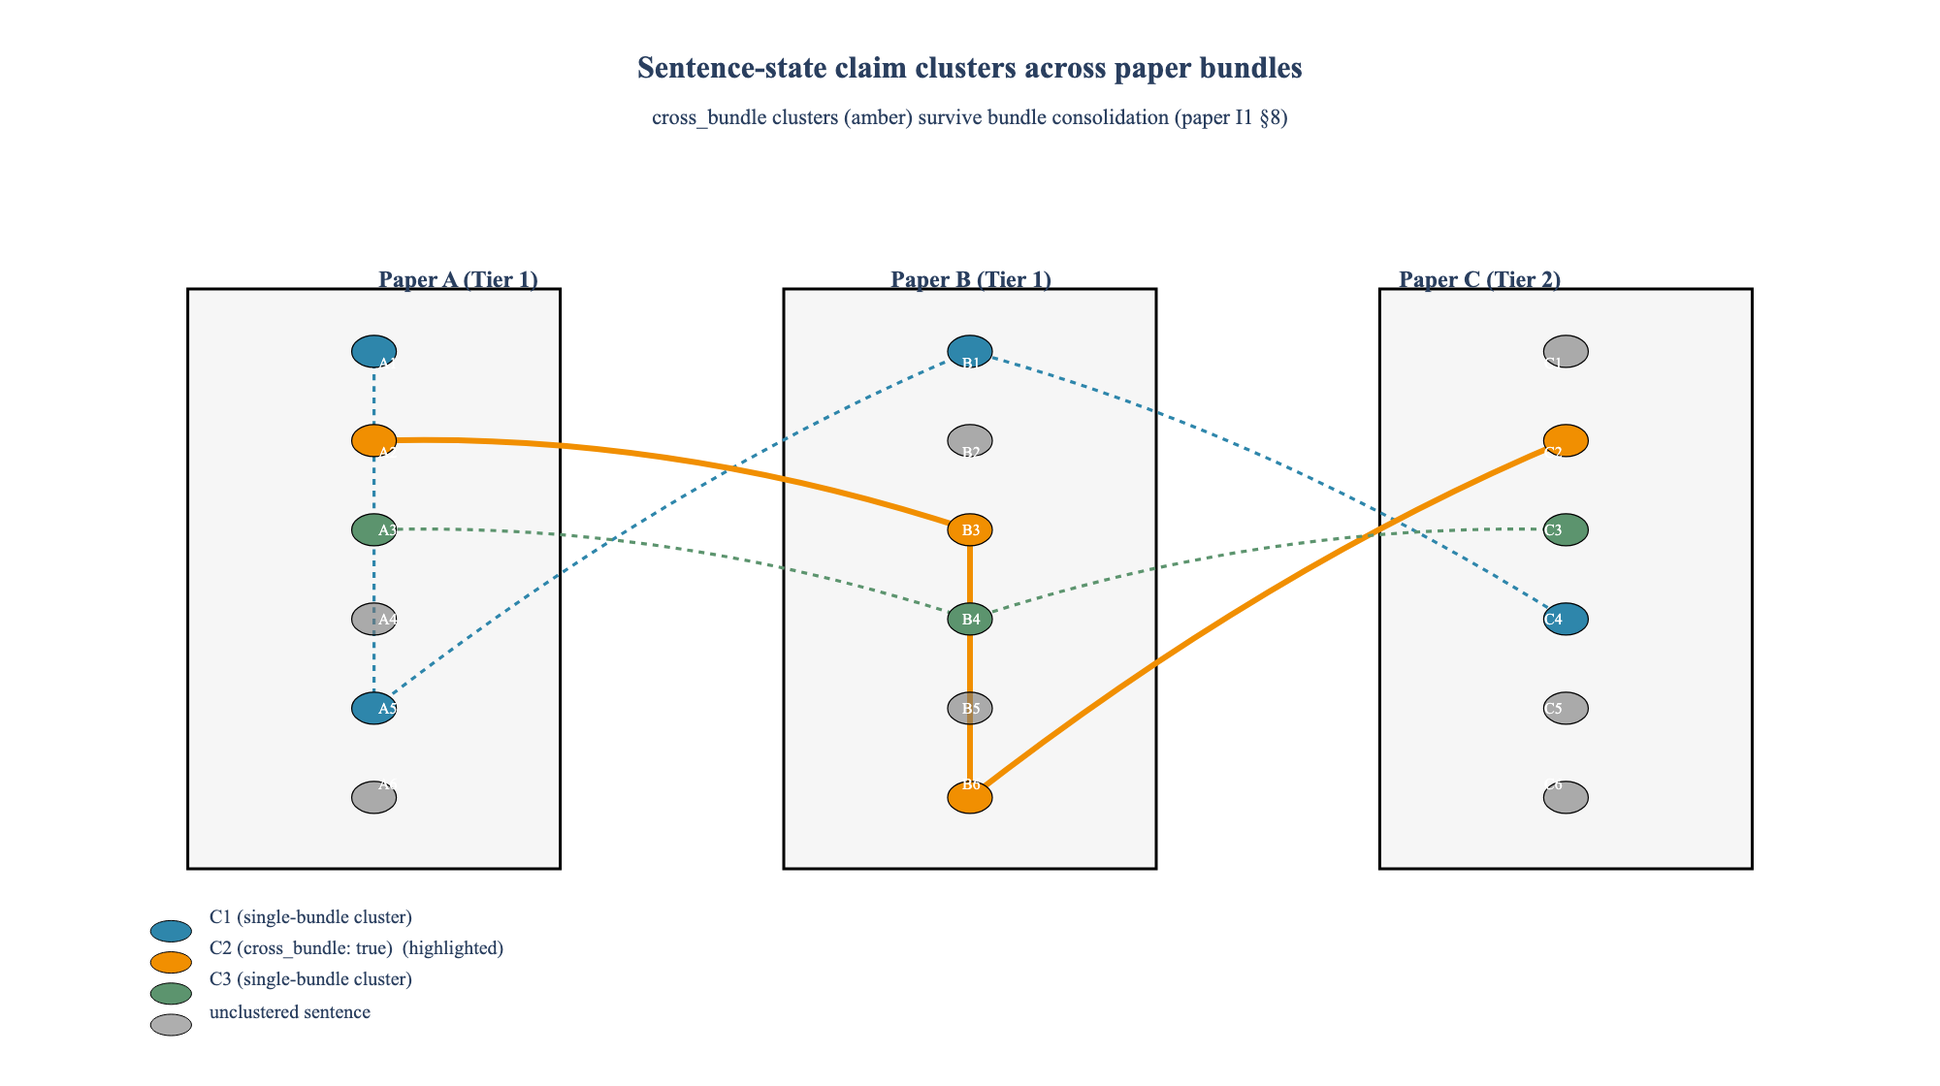
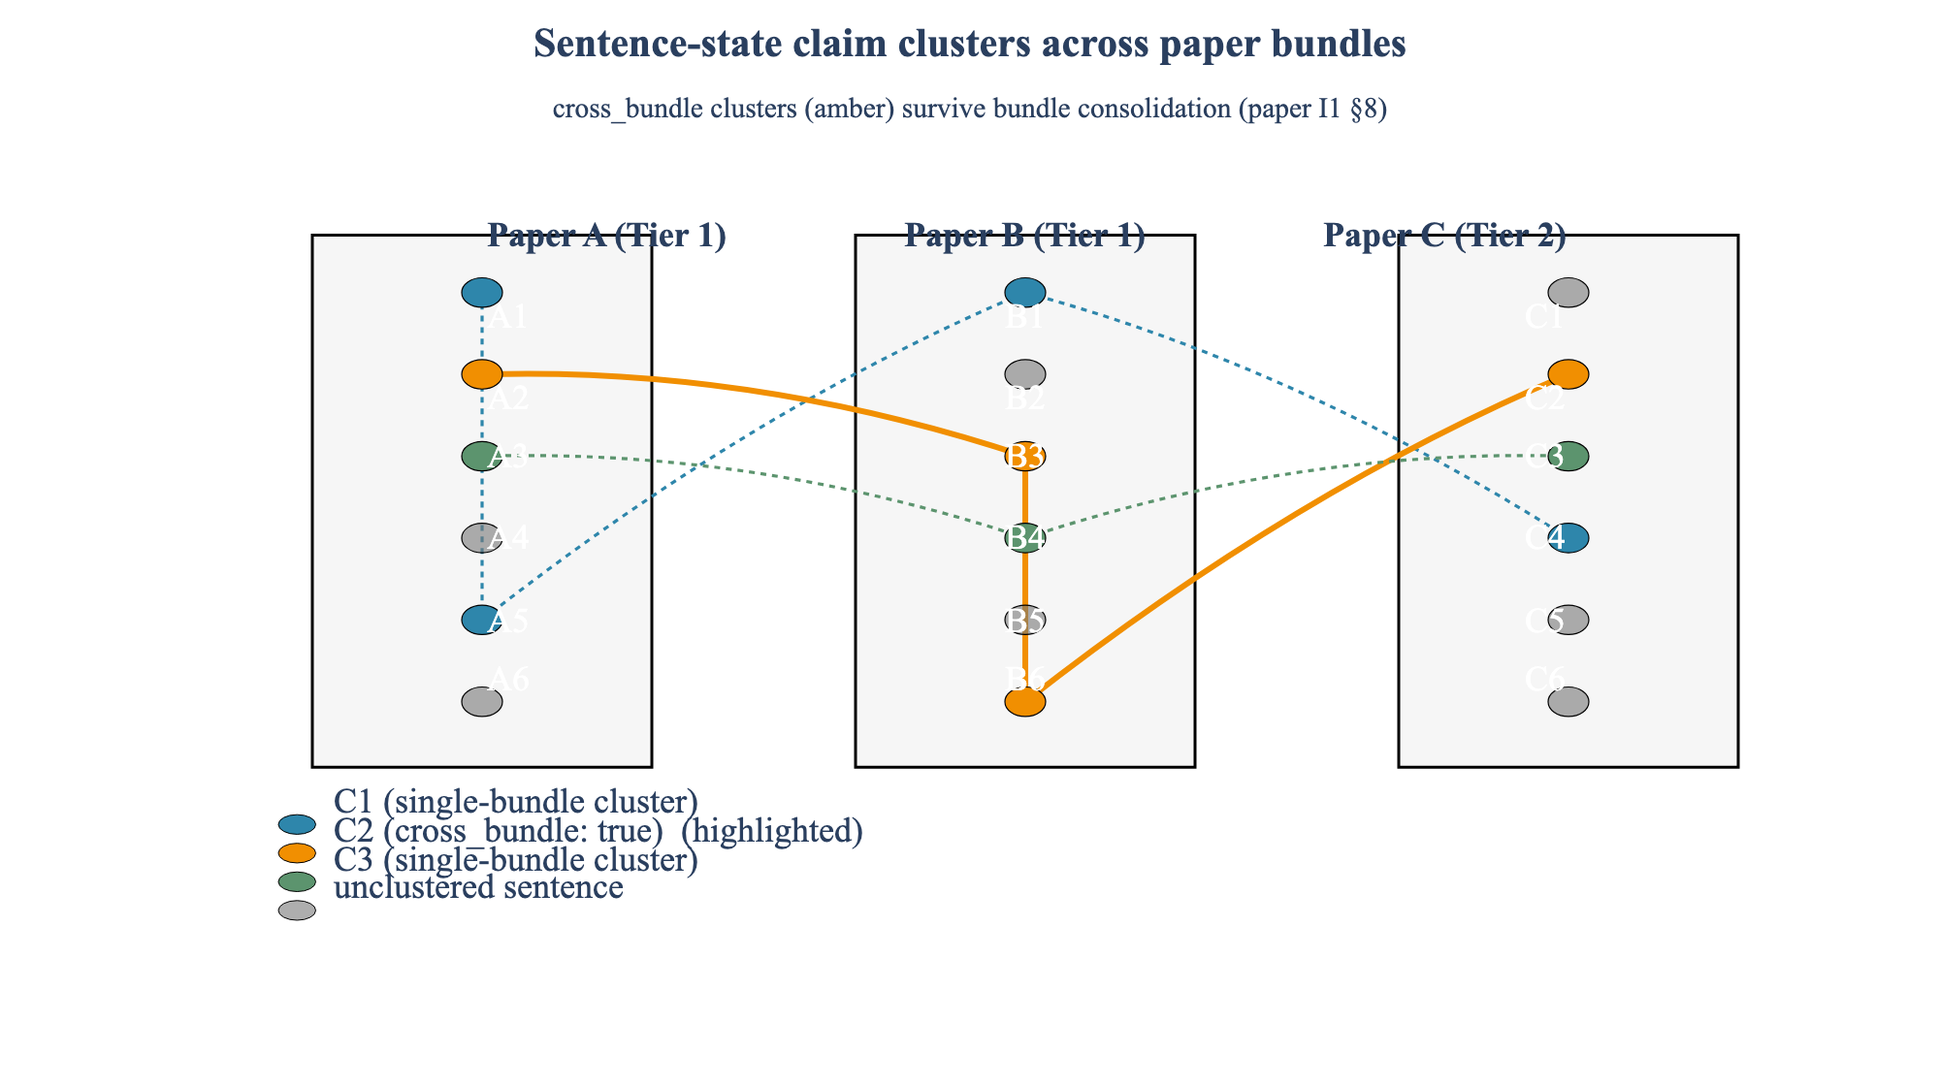
fix(I1): lead the abstract with the result; route figures through the layout helper
PROSE (from the section-7.5 read-through, whose pagination contract worked on
its first real test: seven windows, terminated at \end{document}).

Abstract rewritten to lead with the finding rather than the apparatus. It had
opened on a field-level complaint and an architecture description, reaching the
result at L90 and the strongest result -- the measured rate of fabricated
attributions surviving every deterministic check -- at L100. Both are now in
the first two sentences.

Deleted throughout: the changelog against an earlier internal version, an
internal draft filename cited as a source, a lock date, an invariant clause
addressed to the project operator rather than describing a property, and three
occurrences of an ungrammatical clause that had reached the abstract's own
contribution sentence. Non-monotonic internal identifiers replaced by ordinals
a reader can order. Title-page draft taxonomy replaced by a date.

Symbols now defined at first use: the effective-potential parameters in the
exclusion case; the two unrelated uses of K (sectional vs extrinsic curvature)
plus rho, in a notation paragraph; the expansion and affine parameter, which
collided with a coupling of the same letter three sections earlier.

FIGURES. All six I1 figures printed below the 8pt legibility floor at
3.81-6.21pt. The cause was structural rather than six font bugs: none of the
generators called _bundle_layout, which pins font-to-canvas and normalizes
[…]

diff --git a/papers/I1/paper_draft.tex b/papers/I1/paper_draft.tex
@@ -15,20 +15,9 @@
 %% Source manifest: papers/I1/source_manifest.md
 %% Append log: papers/I1/append_log.json
 %% Change log: papers/I1/change_log.md
-%% This bundle is a synthesis-driven new composition (Phase 7a sub-wave
-%% 7a.2). It draws on paper15_methodology, paper44_riemannian_connection,
-%% Phase 6f W1-W6 algebraic-GR substrate rosters, and Phase 6g W5
-%% structural-Prop scoping pattern as substrate; the prose is authored
-%% fresh.
 \input{../../docs/counts.tex}
-%% ── Per-module Phase-6f/6g count-macro fallbacks ────────────────────
-%% These 19 macros are referenced in §11–§13 but are not (yet) emitted
-%% by scripts/update_counts.py into docs/counts.tex. Values computed
-%% from lean/lean_deps.json (kind == "theorem" grouped by module — the
-%% exact update_counts.py convention), snapshot 2026-06-10.
-%% \providecommand yields to docs/counts.tex definitions the moment the
-%% counts pipeline emits these macros; the durable fix is to add them
-%% to update_counts.py and delete this block.
+%% Per-module count-macro fallbacks. \providecommand yields to
+%% docs/counts.tex whenever the counts pipeline emits these directly.
 \providecommand{\curvatureThms}{14}
 \providecommand{\einsteinTensorThms}{9}
 \providecommand{\energyConditionsThms}{8}
@@ -56,56 +45,44 @@ Effective Field Theory, Algebraic General Relativity, and
 Topological Quantum Field Theory}
 
 \author{John Roehm}
-\date{Draft: Phase 7a, May 2026}
+\date{\today}
 
 \begin{document}
 
 \maketitle
 
 \begin{abstract}
-Computational physics research lacks a structural guarantee that
-published numerical claims match the underlying computation. We
-describe a three-layer continuous-verification pipeline integrating
-Python numerics, Lean~4 formal proofs, and the Aristotle automated
-theorem prover, organized into a fourteen-stage workflow with
-fifteen invariants. Applied across a research program spanning
-dissipative effective field theory, analog Hawking radiation,
-emergent gravity through black-hole thermodynamics, anomaly
-constraints on Standard Model particle content, dark-sector substrate
-constraints, and topological quantum computation foundations, the
-pipeline has produced \totaltheorems{} machine-checked theorems
-across \leanmodules{} Lean modules with \sorrycount{} remaining gaps
-(\sorrypercent\%) plus \aristotleproved{} theorems closed by
-automated theorem proving. We document three new pipeline stages
-beyond the original twelve-stage version (interactive Lean
-development via the language-server protocol, fresh-context
-adversarial review, and meta-process quality improvement), three new
-invariants (placeholder non-load-bearing, no heartbeat overrides in
-proof bodies, primary-source citation cache), the publication-bundle
-architecture that consolidates per-wave drafts into the
-publication targets that frame enumerates, and the preemptive-strengthening discipline
-that reduces theorem-statement audit cost from twelve retroactive
-cuts to five and then to zero across three successive waves (with
-a mandatory ruthless post-wave review as a safety net for residual
-subtler patterns). Three worked cases illustrate the methodology:
-the Aristotle FirstOrderKMS counterexample (where automated proving
-failed and the failure surfaced a substantive physics result), the
-gap-solution-bounded conjecture disproof (where formalization-driven
-counterexample search refuted a literature claim), and the
-chirality-wall exclusion (where decomposing a large goal into
-structural sub-lemmas exposed an assumption no registry recorded). Two further studies document the
-classical-general-relativity mathematics the pipeline accumulated as a
-byproduct, and the discipline by which a theorem is scoped around
-infrastructure the ambient library does not contain.
-A final process result documents the limits of metadata-level
-citation validation: a June~2026 external-review remediation found
-that a citation can be metadata-valid (resolvable identifier,
-cached primary source, correct bibliographic data) while the
-specific claim the prose attributes to it is unsupported by the
-source (three instances in roughly ten spot checks), motivating
-three new deterministic prose-consistency checks and a systematic
-content-level attribution sweep.
-The methodology is domain-agnostic.
+The most informative outputs of a machine-checked physics programme are
+its failures. We report three formalization episodes in which an
+automated prover's refusal, rather than its success, carried the
+result: a returned counterexample localized a defective hypothesis to
+the five field components its specification never named; a second
+refuted an expectation that a condensate gap stays below its cutoff,
+and in doing so yielded a closed-form ceiling on the coupling range in
+which the model is valid at all; and decomposing a large exclusion into
+structural sub-lemmas forced a physics assumption that no assumption
+registry recorded into the open, where it was discharged as two
+theorems rather than admitted as an axiom. A fourth result concerns the
+verification apparatus itself: a citation can be metadata-valid, with
+a resolving identifier, a cached primary source and correct
+bibliographic data, while the claim the prose attributes to it is unsupported by
+that source, and roughly three in ten spot-checked load-bearing
+attributions were wrong at that level, every one of them passing all
+deterministic checks. Making such failures legible rather than silent
+is, we argue, the real design problem. The apparatus that produced
+these results is a three-layer pipeline integrating Python numerics,
+Lean~4 proofs and an automated theorem prover, run as a staged
+development cycle under explicit invariants; applied across
+dissipative effective field theory, analog Hawking radiation, emergent
+gravity, anomaly constraints on Standard Model particle content, dark
+sector constraints and topological quantum computation, it has produced
+\totaltheorems{} machine-checked theorems across \leanmodules{} Lean
+modules with \sorrycount{} remaining gaps (\sorrypercent\%), plus
+\aristotleproved{} theorems closed by automated proving. Two further
+studies document the classical-general-relativity mathematics the
+programme accumulated as a byproduct, and the discipline by which a
+result is scoped around infrastructure the ambient library does not
+contain. Nothing in the method is specific to this physics.
 \end{abstract}
 
 %% ─────────────────────────────────────────────────────────────────
@@ -170,26 +147,14 @@ publicly available; monospaced file paths throughout this paper
 are paths from the root of the public repository (see the Code
 Availability statement).
 
-This paper extends and supersedes an earlier internal draft
-description of a twelve-stage version of the pipeline (April
-2026). The version described here adds three stages beyond
-the original twelve: interactive Lean development via the
-language-server protocol (Stage~3a), fresh-context adversarial
-review (Stage~13), and meta-process quality improvement
-(Stage~14); and three invariants (placeholder non-load-bearing,
-no heartbeat overrides in proof bodies, primary-source citation
-cache). The invariant set has since grown to fifteen; the
-fifteenth (explicit user sign-off, with a documented discharge
-plan, for any new project-local axiom) encodes the project's
-posture that axioms are temporary scaffolding, not permanent
-commitments (Section~\ref{sec:pipeline}). It also documents the
-publication-bundle architecture that consolidates per-wave drafts
-into the publication targets that frame enumerates, and the preemptive-strengthening
-discipline that reduces theorem-statement audit cost from twelve
-retroactive cuts (Phase~6c.3) to five (Phase~6b.1) and then to zero
-(Phase~6m R6) by applying strengthening rules prospectively, with
-a mandatory ruthless post-wave review as the safety net for the
-subtler patterns the prospective checklist misses.
+The development cycle described here runs from a substrate change
+through formalization, mechanical validation, drafting and three
+independent review passes, under a set of invariants that a change
+must not violate. Two of those invariants carry most of the weight in
+what follows: a declaration proved trivially may never be cited as a
+result, and a new project-local axiom requires an explicit discharge
+plan rather than a note of intent. The programme currently ships no
+project-local axioms at all.
 
 The remainder of this paper is organized as follows.
 Section~\ref{sec:architecture} describes the three-layer
@@ -839,7 +804,10 @@ sphaleron-decoupling threshold. \texttt{WallCracked}$(a)$ is $a = 0$:
 the anomaly cancels, so the chiral theory admits the gauging step and a
 non-perturbative regulator exists. The second conjunct is the
 phase-transition condition, $0 < E$ together with
-$c\,\lambda\,T_c < E$, where $E$ is the cubic thermal coefficient
+$c\,\lambda\,T_c < E$. Here $\lambda$ is the quartic self-coupling,
+$\mu^2$ the mass-squared parameter and $c_T$ the thermal-mass
+coefficient of the finite-temperature effective potential, and $E$ is
+its cubic thermal coefficient
 \texttt{p.cubic\_coeff} and
 $T_c = \sqrt{\mu^2 / c_T}$ is the critical temperature built from the
 record's other fields.
@@ -1068,13 +1036,10 @@ project-level memory.}
 \label{tab:stages}
 \end{table}
 
-The current pipeline extends the original twelve-stage version
-(paper15 draft, April 2026) with three additional stages.
-Stage~3a, interactive Lean development via the language-server
-protocol, replaces the previous ``write tactic, run \texttt{lake
-build}, parse error, iterate'' development loop (approximately
-fifteen seconds per cycle) with a millisecond-latency interactive
-loop using the \texttt{lean-lsp-mcp} tool integration. The
+Interactive Lean development via the language-server protocol
+replaces a ``write tactic, run \texttt{lake build}, parse error,
+iterate'' loop, whose cycle time is set by the build, with one whose
+cycle time is set by a language-server query. The
 interactive loop reads the proof state at any line and column,
 tests candidate tactic sequences without editing the file, and
 returns ``no goals'' when the proof is complete. Per tactic-test cycle, the interactive
@@ -1191,12 +1156,11 @@ are preserved verbatim across regenerations.
 \item \textbf{Every paper-shaped output lifts into a publication
 bundle.} New drafts, section additions, and notebook companions
 identify their target bundle at Stage~1 and record it in the
-draft-mapping document at Stage~12. No new stand-alone paper
-drafts are created without explicit user authorization to add a
-new bundle target beyond the current roster.
+draft-mapping document before it is assembled, so every published
+sentence has a recorded route from the source that produced it.
 
 \item \textbf{Every new project-local axiom requires explicit
-user sign-off.} Locked in May~2026. No axiom ships on
+user sign-off.} No axiom ships on
 recommendation-only authority; every new axiom carries either a
 discharge plan (a scheduled wave producing a substantive
 constructive proof) or a documented argument that no constructive
@@ -1234,9 +1198,9 @@ where the audit identified a vacuous statement), the pass has
 been moved to the prospective phase: each theorem statement is
 checked against the same six anti-patterns \emph{before} the
 statement is written. The reduction in audit cost is
-substantial: the wave that introduced the discipline (Phase~6c.3)
-required twelve retroactive cuts; the next wave (Phase~6b.1)
-required five; the wave after that (Phase~6m R6) required zero.
+substantial: across the first three development cycles in which it
+was applied, the number of statements requiring a retroactive
+strengthening cut fell from twelve, to five, to none.
 
 The six anti-patterns are:
 
@@ -1921,6 +1885,14 @@ the covariant-derivative interface once the missing pieces were
 supplied in-project, is the subject of
 Section~\ref{sec:riemannian_sidebar}.
 
+Notation, since these modules borrow two letters twice over. In the
+curvature and exact-solution layers $K$ is a sectional-curvature
+constant and $g_{\mu\nu}$ the metric; in the slice-data layer
+$K_{ij}$ is the extrinsic curvature of a spatial slice, $\mathrm{tr}\,K$
+its trace, ${}^{(3)}\!R$ the intrinsic scalar curvature of that slice,
+and $\rho$ the matter energy density. The two uses of $K$ are
+unrelated and are kept apart by their index structure.
+
 \begin{itemize}
 \item \textbf{Curvature algebra} (\texttt{Curvature.lean},
 \curvatureThms{}~theorems; \texttt{EinsteinTensor.lean},
@@ -2282,7 +2254,7 @@ stops at partitions of unity and the tangent and cotangent bundles, and
 its relativity entries are order-theoretic axiomatisations carrying no
 metric tensor. We make no claim about proof assistants beyond those two.
 A systematic search of the other major libraries was not carried out,
-and an unsearched library is not an empty one --- which is the
+and an unsearched library is not an empty one. That is the
 distinction this manuscript spends Section~\ref{sec:adversarial}
 insisting on, and we decline to violate it here.
 The modules follow upstream file, naming and section conventions with an
@@ -2388,7 +2360,10 @@ rather than rebuilt.
 
 The lifecycle of a gating proposition is visible in the curve-level
 focusing results. The comparison bound
-$\theta(\lambda) \le \theta_0 / (1 + \theta_0\lambda/3)$ first entered
+$\theta(\lambda) \le \theta_0 / (1 + \theta_0\lambda/3)$, in which
+$\theta$ is the expansion of a null congruence and $\lambda$ its affine
+parameter (unrelated to the quartic coupling of
+Section~\ref{sec:case3}), first entered
 the development as a field of the hypothesis bundle
 \texttt{IsCurveTheoreticPenroseHypothesis}, that is, in the second
 state, with the intended route recorded as the library's ordinary
@@ -2495,19 +2470,6 @@ response (deterministic prose-consistency checks where the
 property is mechanizable, fresh-context content reading where it
 is not) is the pipeline's newest layer, and there is no reason
 to believe it is the last.
-
-Three pipeline extensions matured during the year under review
-and are now load-bearing. First, a meta-process quality-improvement register
-(Stage~14) that surfaces systemic patterns across waves; the seed
-event is the April~2026 external-adversarial-review round that
-exposed a thirteen-dimensional problem space that internal
-validation could not detect by construction. Second, the
-publication-bundle architecture that consolidates per-wave drafts
-into the publication targets that frame enumerates while preserving sentence-level
-provenance; this paper is drafted under that architecture. Third, an automated cross-bundle consistency check
-that walks a cross-bundle cluster registry and flags member-
-sentence drift across bundle boundaries, preventing the same fact
-from being stated differently in two papers.
 
 The pipeline is open-source, domain-agnostic, and immediately
 applicable in any research domain where the connection between

diff --git a/src/core/visualizations.py b/src/core/visualizations.py
@@ -12909,6 +12909,12 @@ def fig_i1_three_layer_architecture() -> "go.Figure":
         showlegend=False,
         margin=dict(l=20, r=20, t=80, b=20),
     )
+    # Typeset-legibility floor is enforced by the shared helper, not by the
+    # font sizes above: it pins font-to-canvas and normalizes annotation and
+    # per-trace label fonts, so this figure cannot ship mixed-size text.
+    _bundle_layout(fig, fig.layout.title.text if fig.layout.title else "",
+                   height=fig.layout.height or 800,
+                   width=fig.layout.width or 1200)
     return fig
 
 
@@ -13037,6 +13043,12 @@ def fig_i1_pipeline_14_stages() -> "go.Figure":
         showlegend=False,
         margin=dict(l=20, r=20, t=80, b=30),
     )
+    # Typeset-legibility floor is enforced by the shared helper, not by the
+    # font sizes above: it pins font-to-canvas and normalizes annotation and
+    # per-trace label fonts, so this figure cannot ship mixed-size text.
+    _bundle_layout(fig, fig.layout.title.text if fig.layout.title else "",
+                   height=fig.layout.height or 800,
+                   width=fig.layout.width or 1200)
     return fig
 
 
@@ -13185,6 +13197,12 @@ def fig_i1_sentence_state_clusters() -> "go.Figure":
         showlegend=False,
         margin=dict(l=20, r=20, t=80, b=20),
     )
+    # Typeset-legibility floor is enforced by the shared helper, not by the
+    # font sizes above: it pins font-to-canvas and normalizes annotation and
+    # per-trace label fonts, so this figure cannot ship mixed-size text.
+    _bundle_layout(fig, fig.layout.title.text if fig.layout.title else "",
+                   height=fig.layout.height or 800,
+                   width=fig.layout.width or 1200)
     return fig
 
 
@@ -13330,6 +13348,12 @@ def fig_i1_firstorderkms_grid() -> "go.Figure":
         margin=dict(l=20, r=20, t=160, b=20),
         showlegend=False,
     )
+    # Typeset-legibility floor is enforced by the shared helper, not by the
+    # font sizes above: it pins font-to-canvas and normalizes annotation and
+    # per-trace label fonts, so this figure cannot ship mixed-size text.
+    _bundle_layout(fig, fig.layout.title.text if fig.layout.title else "",
+                   height=fig.layout.height or 800,
+                   width=fig.layout.width or 1200)
     return fig
 
 
@@ -13453,6 +13477,12 @@ def fig_i1_gap_counterexample() -> "go.Figure":
         yaxis=dict(title="Gap Δ", range=[0, 1.5]),
         legend=dict(x=0.02, y=0.98, bgcolor="rgba(255,255,255,0.9)"),
     )
+    # Typeset-legibility floor is enforced by the shared helper, not by the
+    # font sizes above: it pins font-to-canvas and normalizes annotation and
+    # per-trace label fonts, so this figure cannot ship mixed-size text.
+    _bundle_layout(fig, fig.layout.title.text if fig.layout.title else "",
+                   height=fig.layout.height or 800,
+                   width=fig.layout.width or 1200)
     return fig
 
 
@@ -13565,6 +13595,12 @@ def fig_i1_chirality_wall_tree() -> "go.Figure":
         plot_bgcolor="white", paper_bgcolor="white",
         margin=dict(l=20, r=20, t=100, b=20),
     )
+    # Typeset-legibility floor is enforced by the shared helper, not by the
+    # font sizes above: it pins font-to-canvas and normalizes annotation and
+    # per-trace label fonts, so this figure cannot ship mixed-size text.
+    _bundle_layout(fig, fig.layout.title.text if fig.layout.title else "",
+                   height=fig.layout.height or 800,
+                   width=fig.layout.width or 1200)
     return fig
 
 
@@ -14821,8 +14857,14 @@ def _bundle_layout(fig, title, height=340, width=_BUNDLE_FIG_WIDTH,
     # figures hardcoding 11-12 px on ~900 px canvases -> 6.4-6.8 pt in print,
     # below the 8 pt floor, while every other string was compliant. Normalize
     # them here so a single call cannot leave a mixed-size figure behind.
+    # ⚠ The selector must match how a trace CARRIES its labels, not just `text`.
+    # Keying on `text` alone skipped treemap/sunburst/pie/icicle traces, which
+    # label via `labels`, so a treemap kept its hardcoded textfont and stayed
+    # below the floor while every other string in the figure was normalized —
+    # the mixed-size outcome this call exists to make impossible.
     fig.update_traces(textfont_size=font_size - 1,
-                      selector=lambda t: getattr(t, "text", None) is not None)
+                      selector=lambda t: getattr(t, "text", None) is not None
+                      or getattr(t, "labels", None) is not None)
     return fig
 
 
